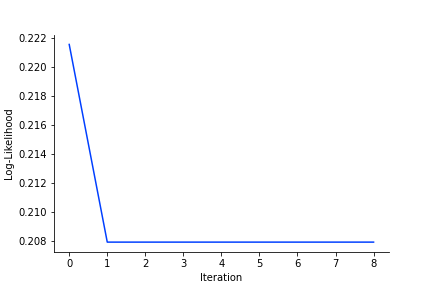
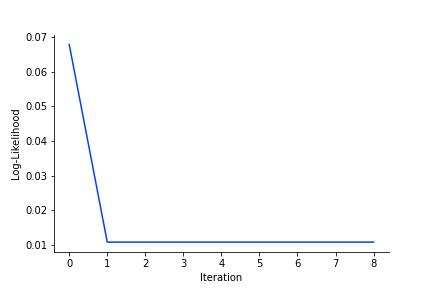
Should have fixed both homeworks. Updated cascades model properly.

diff --git a/HW2/HW2_Q3_greedy_heuristic.py b/HW2/HW2_Q3_greedy_heuristic.py
@@ -3,20 +3,20 @@ import os, matplotlib
 from igraph import Graph
 import igraph as ig
 import numpy as np
-from itertools import combinations
+from itertools import combinations_with_replacement, combinations
 from typing import Iterable
 import matplotlib.pyplot as plt
 from tqdm import tqdm
 os.chdir(os.path.dirname(os.path.realpath(__file__)))
 #%%
-def get_group_degree(group, partition, edge_list):
+def get_group_degree(graph:Graph, group, partition):
     k = 0
-    for i, j in edge_list:
-        if partition[i] == group or partition[j] == group:
-            k += 1
+    for i, community in enumerate(partition):
+        if community == group:
+            k += len(graph.incident(i, mode="all"))
     return k
 
-def log_likelihood(edge_list, partition:list, mode="DCSBM", directed=False):
+def log_likelihood(graph:Graph, partition:list, directed=False):
     '''
     Computes the log likelihood
     Args:
@@ -28,29 +28,40 @@ def log_likelihood(edge_list, partition:list, mode="DCSBM", directed=False):
     '''
     groups = set(partition)
     likelihoods = []
+    #Sets edges based on if graph is directed or not
     if directed:
-        m = len(edge_list)
+        m = len(graph.get_edgelist())
     elif directed == False:
-        m = 2 * len(edge_list)
-    for u, v in combinations(groups, 2):
-        N = partition.count(u) * partition.count(v)
+        m = 2 * len(graph.get_edgelist())
+
+    #For all unique combinations of groups
+    for u, v in combinations_with_replacement(groups, 2):
+        #Get either Nuu or Nuv
+        if u == v:
+            N = partition.count(u) * (partition.count(u) - 1)
+        else:
+            N = partition.count(u) * partition.count(v)
+        
+        #Get Euv
         E = 0
-        for i, j in edge_list:
+        for i, j in graph.get_edgelist():
             if (partition[i] == u and partition[j] == v) or (partition[i] == v and partition[j] == u):
                 E +=1
-        if mode == "SBM":
-            l = E * np.log(E/N) + (N - E) * np.log((N-E)/N)
-        elif mode == "DCSBM":
-            ku = get_group_degree(u, partition, edge_list)
-            kv = get_group_degree(v, partition, edge_list)
-            if E == 0:
-                l = 0
-            else:
-                l = (E/(m)) * np.log((E/(m))/((ku * kv)/(m**2)))
+        
+        #Compute group degrees
+        ku = get_group_degree(graph, u, partition)
+        kv = get_group_degree(graph, v, partition)
+
+        #Compute log likelihood for this combination of uv
+        if E == 0:
+            l = 0
+        else:
+            l = E/m * np.log(E * m/(ku * kv))
         likelihoods.append(l)
+    #Return the sum of logs
     return np.sum(likelihoods)
             
-def makeAMove(graph:Graph, z:list, c:int, is_frozen:list, mode:str, directed=False):
+def makeAMove(graph:Graph, z:list, c:int, is_frozen:list, directed=False):
     '''
     One step of a phase in the greedy heuristic.
     Args:
@@ -73,14 +84,14 @@ def makeAMove(graph:Graph, z:list, c:int, is_frozen:list, mode:str, directed=Fal
                     z_temp = z.copy()
                     z_temp[i] = group
                     node_likelihoods.append((z_temp, 
-                        log_likelihood(graph.get_edgelist(), z_temp, mode, directed=directed)))
+                        log_likelihood(graph, z_temp, directed=directed)))
             likelihoods.append(max(node_likelihoods, key=lambda x: x[1]))
     
     z_news, likelihood_news = zip(*likelihoods)
     likelihoods = zip(range(len(z_news)), z_news, likelihood_news)
     return max(likelihoods, key=lambda x: x[2])
 
-def runOnePhase(graph:Graph, z:list, c:int, mode:str, directed=False):
+def runOnePhase(graph:Graph, z:list, c:int, directed=False):
     '''
     Runs one phase of the greedy heuristic. 
     Args:
@@ -93,12 +104,12 @@ def runOnePhase(graph:Graph, z:list, c:int, mode:str, directed=False):
     '''
     n = len(z)
     is_frozen = [False for _ in range(n)]
-    l0 = log_likelihood(g.get_edgelist(), z, mode) #Should I have this initial likelihood?
+    l0 = log_likelihood(graph, z) #Should I have this initial likelihood?
     likelihood_list = []
     h = 0
 
     for t in range(n):
-        node_index, z_i, likelihood = makeAMove(graph, z, c, is_frozen, mode = mode, directed=directed)
+        node_index, z_i, likelihood = makeAMove(graph, z, c, is_frozen, directed=directed)
         is_frozen[node_index] = True
         if likelihood_list == []:
             z_star = z_i
@@ -112,7 +123,7 @@ def runOnePhase(graph:Graph, z:list, c:int, mode:str, directed=False):
         z_star = z
     return z_star, np.max(likelihood_list), likelihood_list, h
     
-def fitDCSBM(graph:Graph, c:int, T:int, mode = "DCSBM", directed=False):
+def fitDCSBM(graph:Graph, c:int, T:int, directed=False):
     '''
 
     Args:
@@ -129,7 +140,7 @@ def fitDCSBM(graph:Graph, c:int, T:int, mode = "DCSBM", directed=False):
     L_star = 0
     L_list = []
     for p in range(T):
-        z, likelihood, likelihood_list, h = runOnePhase(graph, z, c, mode=mode, directed=directed)
+        z, likelihood, likelihood_list, h = runOnePhase(graph, z, c, directed=directed)
         L_list.extend(likelihood_list)
         if likelihood > L_star:
             L_star = likelihood
@@ -141,9 +152,9 @@ def fitDCSBM(graph:Graph, c:int, T:int, mode = "DCSBM", directed=False):
 
 def init_q2_graph(graph:Graph, c:int, colors:list):
     z_init = list(np.random.randint(3, size=len(g.vs)))
-    l_orig = log_likelihood(g.get_edgelist(), z_init)
+    l_orig = log_likelihood(g, z_init)
     fig, ax = plt.subplots()
-    ig.plot(g, vertex_color = [colors[i] for i in g.vs["community"]], target=ax)
+    ig.plot(g, vertex_color = [colors[i] for i in z_init], target=ax)
     ax.text(0.6, 1.5, s=f"Log-Likelihood: \n {round(l_orig, 3)}")
     ax.set_axis_off()
     return fig, z_init
@@ -187,7 +198,7 @@ fig_a1, z_inita = init_q2_graph(g, c=3, colors=colors)
 
 is_frozen_init = [False for _ in range(len(g.vs))]
 
-_, z_star, l_star = makeAMove(g, z=z_inita, c=3, is_frozen=is_frozen_init, mode="DCSBM")
+_, z_star, l_star = makeAMove(g, z=z_inita, c=3, is_frozen=is_frozen_init)
 
 fig_a2 = plot_dcsbm(g, z_star, l_star, colors)
 
@@ -197,7 +208,7 @@ fig_a2 = plot_dcsbm(g, z_star, l_star, colors)
 
 fig_b1, z_initb = init_q2_graph(g, c=3, colors=colors)
 
-z_starb, l_starb, l_listb, _ = runOnePhase(g, z=z_initb, c=3, mode="DCSBM")
+z_starb, l_starb, l_listb, _ = runOnePhase(g, z=z_initb, c=3)
 
 fig_b2 = plot_dcsbm(g, z_starb, l_starb, colors)
 
@@ -236,7 +247,7 @@ def karate_search(max_phases, max_iterations):
     for i in tqdm(range(max_iterations)):
         z_d, l_d, _, _ = fitDCSBM(karate, c=2, T=max_phases)
         if z_d == list(karate_partition) or z_d == list(karate_partition_inv):
-            print(f"Found the karate partition in {i+1} runs!")
+            tqdm.write(f"Found the karate partition in {i+1} runs!") 
             fig, _ = plot_dcsbm(karate, z_d, l_d, ["blue", "red"])
             fig.show()
             return z_d

diff --git a/HW2/HW2_Q4_cascades.py b/HW2/HW2_Q4_cascades.py
@@ -1,7 +1,7 @@
 #%%
 import igraph as ig
 import numpy as np
-import os, matplotlib
+import os, matplotlib, pickle, itertools
 import matplotlib.pyplot as plt
 from tqdm import tqdm
 from itertools import combinations
@@ -16,7 +16,7 @@ def gen_planted_partition(n, p, q, c):
     g = ig.Graph(directed=False)
     g.add_vertices(n)
     g.vs["community"] = z
-    for i, j in tqdm(combinations(range(len(z)), 2), f"Generating n={n} Planted Partition", position=1):
+    for i, j in combinations(range(len(z)), 2):
         if z[i] == z[j] and np.random.uniform() < p:
             g.add_edge(i, j)
         elif z[i] != z[j] and np.random.uniform() < q:
@@ -32,9 +32,9 @@ def plot_planted_partition(graph, partition, colors, title):
 
 #%%
 #part(a)
-d=2
+d=10
 n=100
-c=10
+c=2
 epsilon = [0,4,8]
 colors = [f"tab:{color}" for color in ["blue", "orange", "green", "red", "purple", "brown", "pink", "gray", "olive", "cyan"]]
 figs_a = []
@@ -43,59 +43,74 @@ for e in epsilon:
     p = (2*d + e)/(2*n)
     q = (2*d - e)/(2*n)
     planted_partition = gen_planted_partition(n=n, p=p, q=q, c=c)
+    planted_partition.layout_fruchterman_reingold()
     fig = plot_planted_partition(graph=planted_partition, 
         partition=planted_partition.vs["community"], 
         colors=colors, 
-        title=f"Planted Partition with p={round(p, 2)}, q={round(q, 2)}, e={epsilon} and <k>=d={d}")
+        title=f"Planted Partition with p={round(p, 2)}, q={round(q, 2)}, e={e} and <k>=d={d}")
     figs_a.append(fig)
 
 #%%
-def get_pandemic_cluster_stats(graph):
-    n = len(graph.vs)
-    infected = int(np.random.randint(n, size=1))
-    components = graph.clusters()
-    c = components.membership[infected]
-    cluster = components.subgraph(c)
-    return len(cluster.vs)/len(graph.vs), cluster.diameter()
+def infect(graph, p):
+    t = 0
+    graph.es["used"] = np.zeros_like(graph.es) #0: unused, #1: used
+    #List of infected
+    infected = []
+    #One time infecting stage
+    infecting = list(np.random.randint(len(graph.vs), size=1))
     
-def get_pandemic_stats(cluster):
-    return len(cluster.vs), cluster.diameter()
+    while len(infecting) > 0:
+        #Take an infecting person
+        infect = infecting.pop()
 
-def pandemic_simulation(n, p_range, e, c, sims):
-    pandemic_sizes = []
-    pandemic_lengths = []
-    for p in p_range:
-        q = p - e/n
-        average_size = []
-        average_length = []
-        for _ in tqdm(range(sims), f"Sims for p={p}", position=0):
-            g = gen_planted_partition(n=n, p=p, q=q, c=c)
-            size, diameter = get_pandemic_cluster_stats(g)
-            average_size.append(size)
-            average_length.append(diameter)
-        pandemic_sizes.append(np.mean(average_size))
-        pandemic_lengths.append(np.mean(average_length))
-    return pandemic_sizes, pandemic_lengths
+        #Get all incident edges that are unused
+        links = [i for i in graph.incident(infect) if not graph.es["used"][i]]
+
+        for link in links:
+            #Set link to used
+            graph.es["used"][link] = 1
+
+            #If transmission successful
+            if np.random.uniform() < p:
+                i, j = graph.es[link].source, graph.es[link].target
+
+                #Use source or target that is not the origin and not already infected and add to infecting
+                if i != infect and i not in infected:
+                    infecting.append(i)
+                elif j not in infected:
+                    infecting.append(j)
+
+        #Uptick period and add move infecting to infected
+        t += 1
+        infected.append(infect)
+    return infected, t
+
+def pandemic_simulation(n, d, e, c, prob_infection, sims):
+    sizes = []
+    lengths = []
+    for _ in range(sims):
+        p = (2*d + e)/(2*n)
+        q = (2*d - e)/(2*n)
+        g = gen_planted_partition(n=n, p=p, q=q, c=c)
+        infected, t = infect(g, prob_infection)
+        sizes.append(len(infected)/len(g.vs))
+        lengths.append(t)
+    return (np.mean(sizes), np.mean(lengths))
+
+
 #%%
 #part(b)
 e = 0
-p_range = np.arange(0, 1, 0.05)
-p = 0.05
+p_range = np.arange(0, 1, 0.05) #Chance of infection along an edge
 n=100
-c=8
-q = p - e/n
-sims = 10
+c=2
+d=8
+sims = 50
 
-#Test here
-# g = gen_planted_partition(n=n, p=p, q=q, c=c)
-# fig = plot_planted_partition(graph=g,
-#     partition=planted_partition.vs["community"],
-#     colors=colors,
-#     title="")
-
-epidemic_sizes, epidemic_lengths = pandemic_simulation(n=n, p_range=p_range, e=e, c=c, sims=sims)
-
-
+stats = [pandemic_simulation(n, d, e, c, prob_infection, sims) for prob_infection in tqdm(p_range)]
+epidemic_sizes, epidemic_lengths = zip(*stats)
+        
+    
 #%%
 fig_b_size, ax_size = plt.subplots()
 ax_size.plot(p_range, epidemic_sizes)
@@ -109,17 +124,15 @@ ax_length.set_ylabel("Epidemic Length (l)")
 
 #%%
 
-#part(c)
+# #part(c)
 n=200
 p_range = np.arange(0,1, 0.05)
 sims=10
-c=8
+c=2
+d=8
 e_range= range(0,17,2)
 
-sim_results = []
-for e in e_range:
-    e_sizes, e_lengths = pandemic_simulation(n=n, p_range = p_range, e=e, c=c, sims=sims)
-    sim_results.append((p_range, e_sizes, e_lengths))
+sim_results = [[pandemic_simulation(n, d, e, c, prob_infection=p, sims=sims) for p in p_range] for e in tqdm(e_range)]
 
 fig_c_size, ax_c_size = plt.subplots()
 ax_c_size.set_xlabel("Probability of Transmission (p)")
@@ -131,8 +144,15 @@ ax_c_length.set_xlabel("Probability of Transmission (p)")
 ax_c_length.set_ylabel("Epidemic Length (l)")
 ax_c_length.legend()
 
-for i, p, size, length in enumerate(sim_results):
-    ax_c_size.plot(p, size, color=colors[i], label=f"e={e_range[i]}")
-    ax_c_length.plot(p, length, color=colors[i], label=f"e={e_range[i]}")
+for i, e in enumerate(e_range):
+    sizes, lengths = zip(*sim_results[i])
+    ax_c_size.plot(p_range, sizes, color=colors[i], label=f"e={e}")
+    ax_c_length.plot(p_range, lengths, color=colors[i], label=f"e={e}")
+
+#%%
+with open ("sim_results.pkl", "wb") as outfile:
+    pickle.dump(sim_results, outfile)
+
+# # %%
 
 # %%
